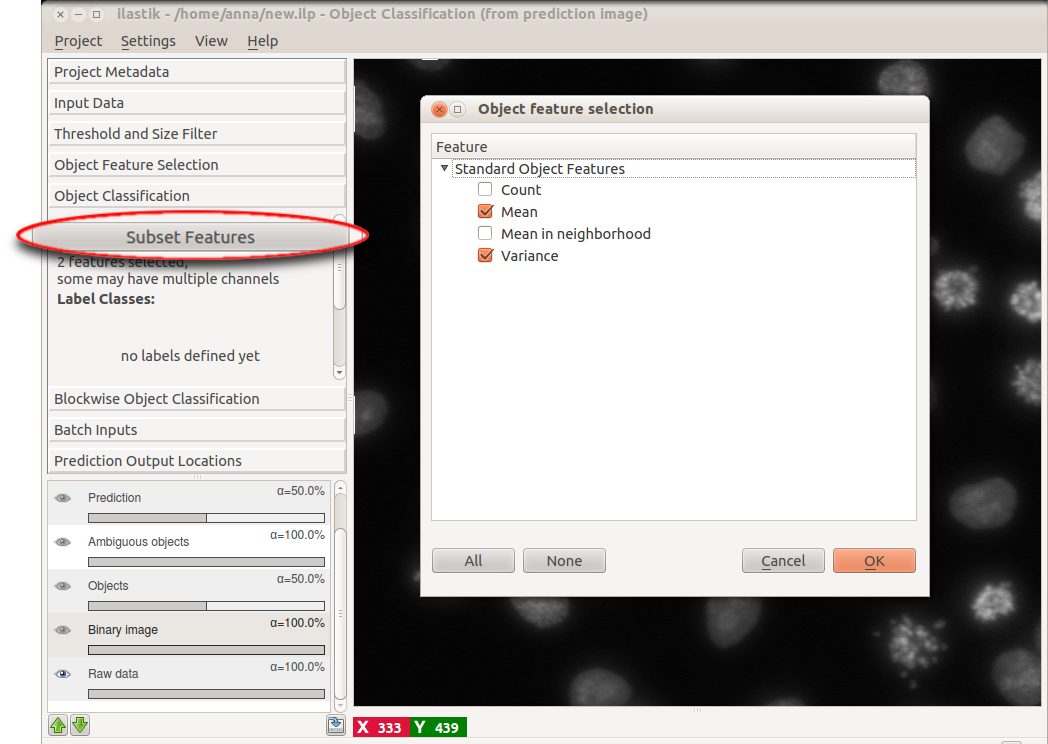
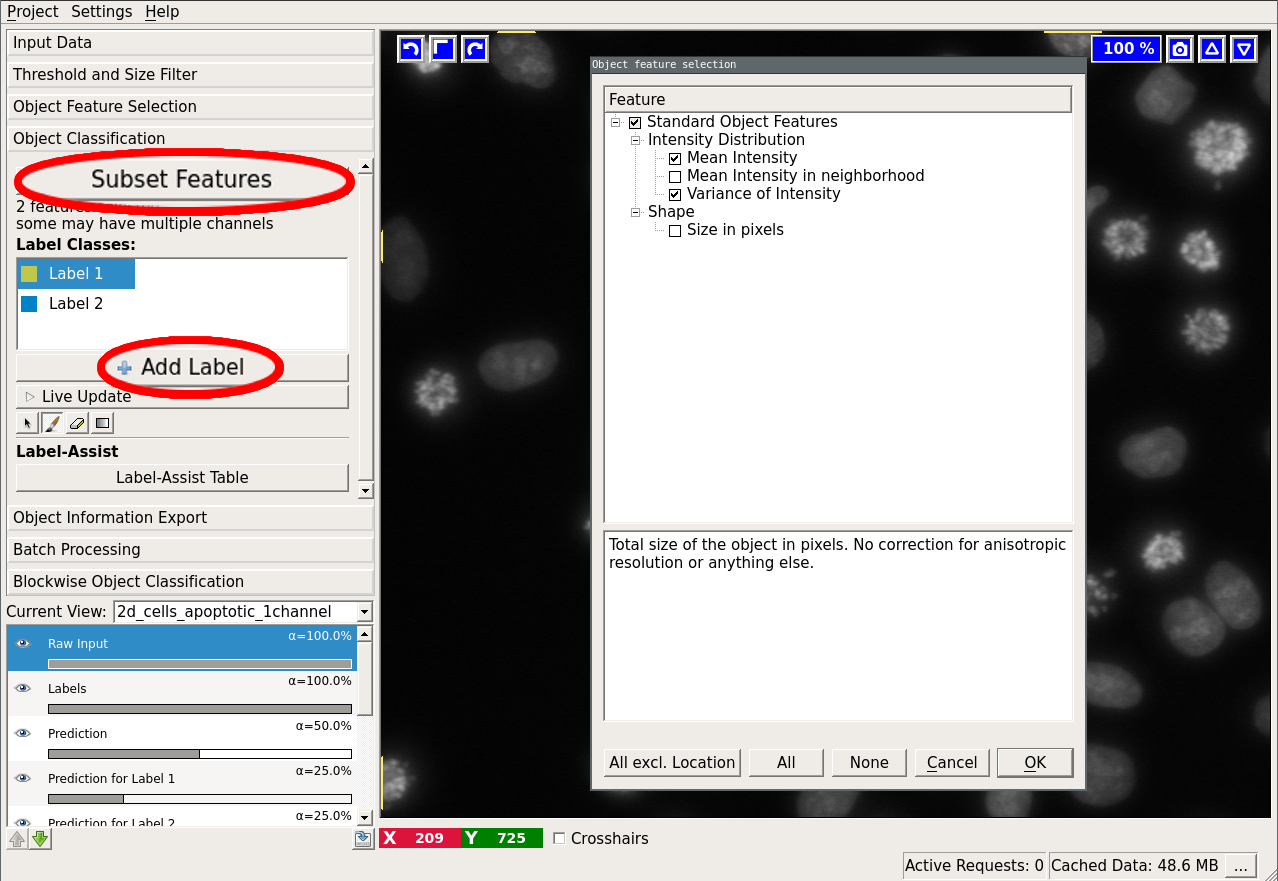
updated oc classification part
updated text for features and training
updated screenshots

diff --git a/documentation/objects/objects.md b/documentation/objects/objects.md
@@ -154,30 +154,35 @@ Once you have selected the features you like, the applet will proceed to compute
 
 
 ## Prediction for objects - "Object Classification" applet
-This applet allows you to label the objects and classify them based on the features, computed in the previous applet. If you want to choose a subset of features, press the "Subset features" button. Adding labels and changing their color is done the same way as in the
+This applet allows you to label the objects and classify them based on the features, computed in the previous applet.
+If you want to choose a subset of features, press the "Subset features" button.
+Adding labels and changing their color is done the same way as in the
 [Pixel Classification workflow]({{site.baseurl}}/documentation/pixelclassification/pixelclassification.html).
-For a particular example, let us examine the data more closely by activating only the "Raw data" layer:
+For a particular example, let us examine the data more closely by activating only the "Raw data" layer (tip: you can toggle between the currently visible layers and only showing the "Raw data" layer by pressing `i`):
 
 <a href="figs/oc_raw.png" data-toggle="lightbox"><img src="figs/oc_raw.png" class="img-responsive" /></a>
 
-Clearly, two classes of cells are present in the image: one more bright but variable, the other darker and more homogeneous. Hopefully, the two classes can be separated by the grayscale mean and variance in the objects. Let us select these two features and add two labels. 
+Clearly, two classes of cells are present in the image: one more bright but variable, the other darker and more homogeneous. Hopefully, the two classes can be separated by the grayscale mean and variance in the objects. Let us select these two features.
+Two labels are already added to the workflow by default.
+If you need more labels you can click on "Add Label" to do so.
 
 <a href="figs/oc_subset.png" data-toggle="lightbox"><img src="figs/oc_subset.png" class="img-responsive" /></a>
 
-Note, that the list of features now only contains the few features that were selected in the previous applet. To label objects, either simply left-click on them or right-click and select the corresponding option. Right-clicking also allows you to print the object properties in the terminal. To trigger classification, check the "Live Update" checkbox.
+Note, that the list of features now only contains the few features that were selected in the previous applet. To label objects, either simply left-click on them or right-click and select the corresponding option. Right-clicking also allows you to print the object properties in the terminal. To trigger classification, press the "Live Update" button.
 
-<a href="figs/oc_add_labels.png" data-toggle="lightbox"><img src="figs/oc_add_labels.png" class="img-responsive" /></a>
+<a href="figs/oc_live_upd_labeled.png" data-toggle="lightbox"><img src="figs/oc_live_upd_labeled.png" class="img-responsive" /></a>
 
-If the "Live Update" checkbox is activated, the prediction is interactive and you can receive immediate feedback on your labels. Let us examine the prediction results:
+If the "Live Update" mode is activated, the prediction is interactive and you can receive immediate feedback on your labels. Let us examine the prediction results:
 
 <a href="figs/oc_prediction1.png" data-toggle="lightbox"><img src="figs/oc_prediction1.png" class="img-responsive" /></a>
 
-In the low right corner we see a cell (shown by the red ellipse), which was classified as "green", while it is most probably "red". Let's label it "red" and check the results again:
+In the low right corner we see a cell (shown by the red ellipse), which was classified as "blue", while it is most probably "yellow". Let's label it "yellow" and check the results again:
 
 <a href="figs/oc_prediction2.png" data-toggle="lightbox"><img src="figs/oc_prediction2.png" class="img-responsive" /></a>
 
 All cells seem to be classified correctly, except one segmentation error, where two cells were erroneously merged (shown by the red ellipse). How could we correct that? We'd have to go back to the thresholding applet, where we performed the segmentation. In the best case, you would have caught this error by examining the thresholding output at the first step. The problem with correcting the segmentation now is that with different thresholds the objects will most probably change shape and thus their features. Besides, some objects might disappear completely, while others appear from the background.
 Currently, all labels are lost when the threshold is changed!
+
 <!-- This has been deactivated for quite a while (at 1.3.3b1 now). Uncomment the following paragraph, once transfer-labels is back!-->
 <!-- ilastik will try to transfer your object labels from the old to the new segmentation, but it will fail in case of disappearance or object division, which is why it's recommended to not change the segmentation after labels are added. Nevertheless, let us try it for demonstration purposes:
 
